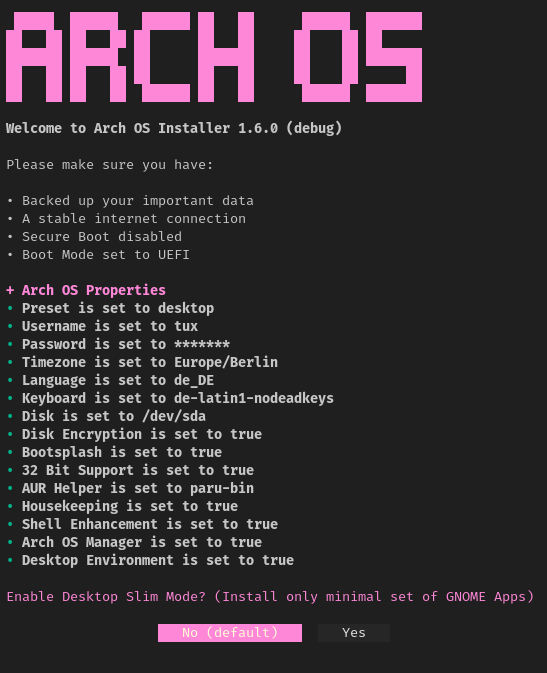
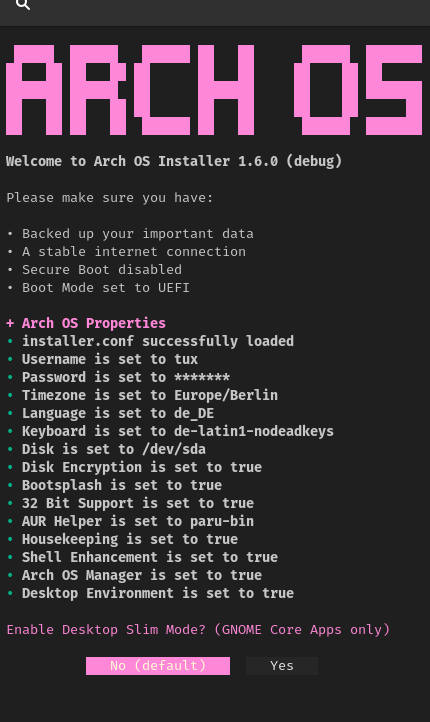
screenshots

Changed region(s): [[0.0, 0.0, 0.9977, 0.9673], [0.5744, 0.4681, 0.6953, 0.4993]]

diff --git a/docs/DOCS.md b/docs/DOCS.md
@@ -445,5 +445,7 @@ curl -Ls bit.ly/arch-os-dev | bash
 <p><img src="screenshots/installer_slim.png"></p>
 <p><img src="screenshots/installer_start_installation.png"></p>
 <p><img src="screenshots/installer_process.png"></p>
+<p><img src="screenshots/installer_finish.png"></p>
+<p><img src="screenshots/installer_core_complete.png"></p>
 
 </div>

diff --git a/docs/README.md b/docs/README.md
@@ -15,7 +15,7 @@
 
 </b></p>
 
-<p><img src="./screenshots/installer_start_installation.png"></p>
+<p><img src="./screenshots/installer_core_complete.png"></p>
 
 <p><b>
 
